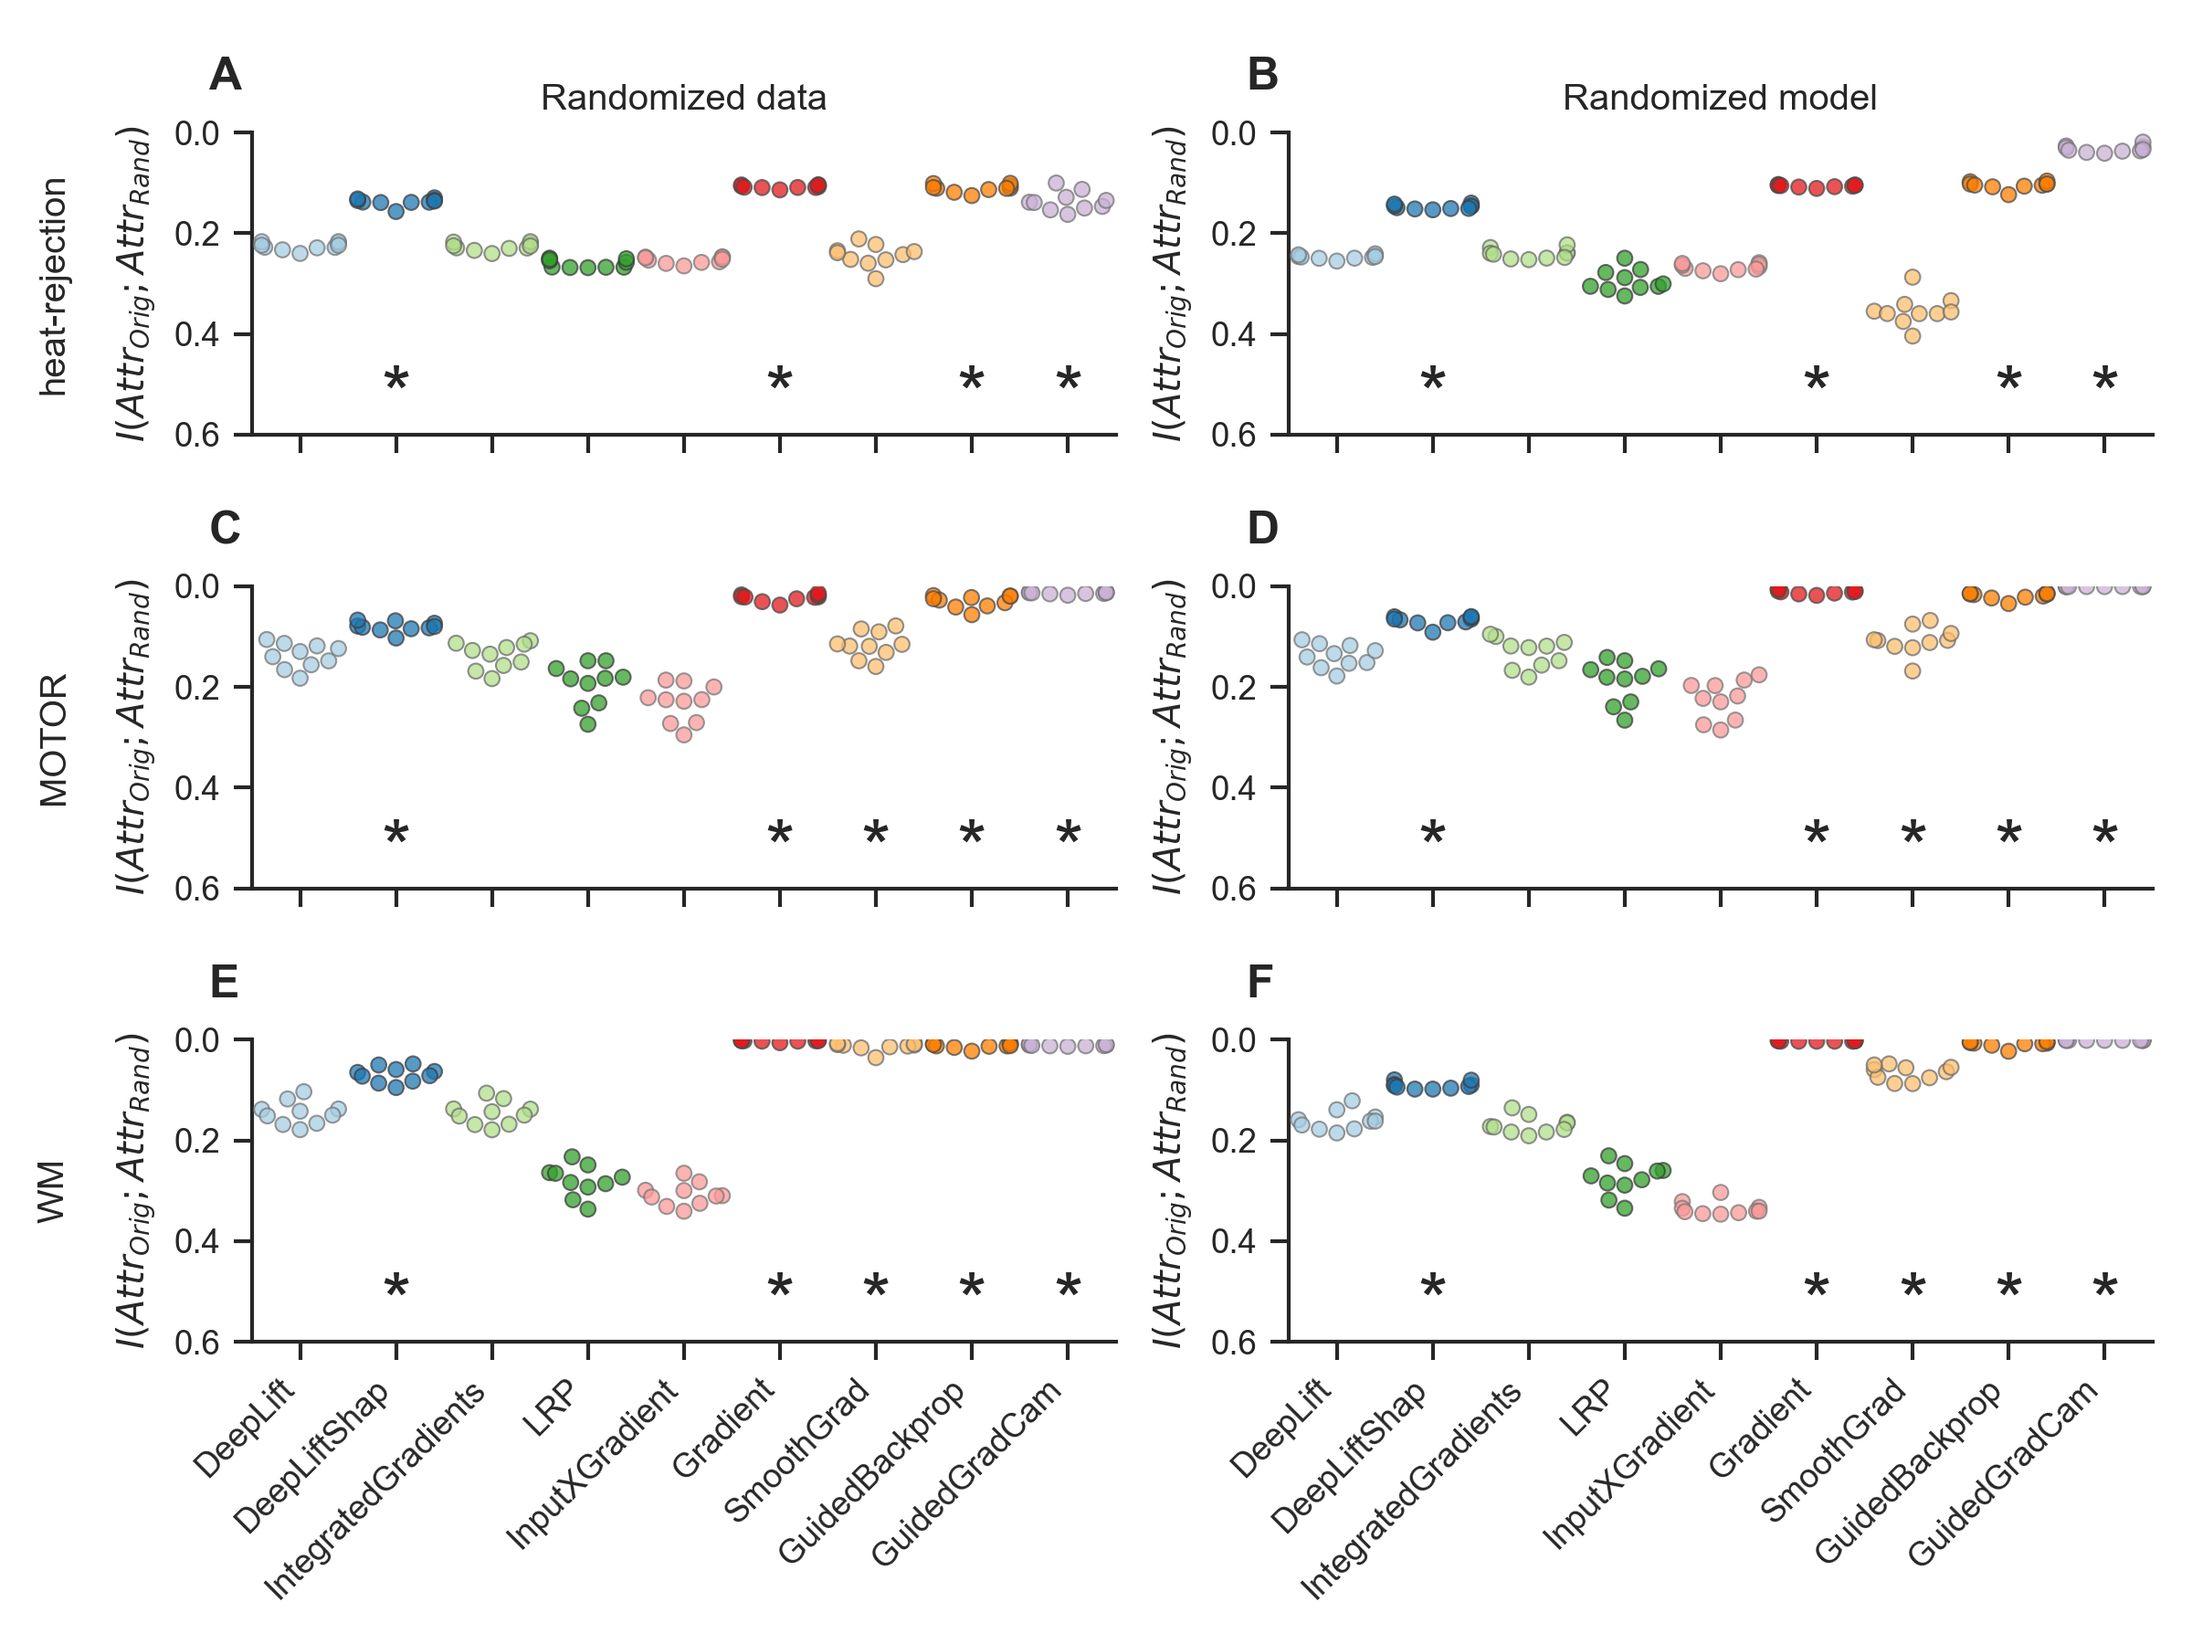
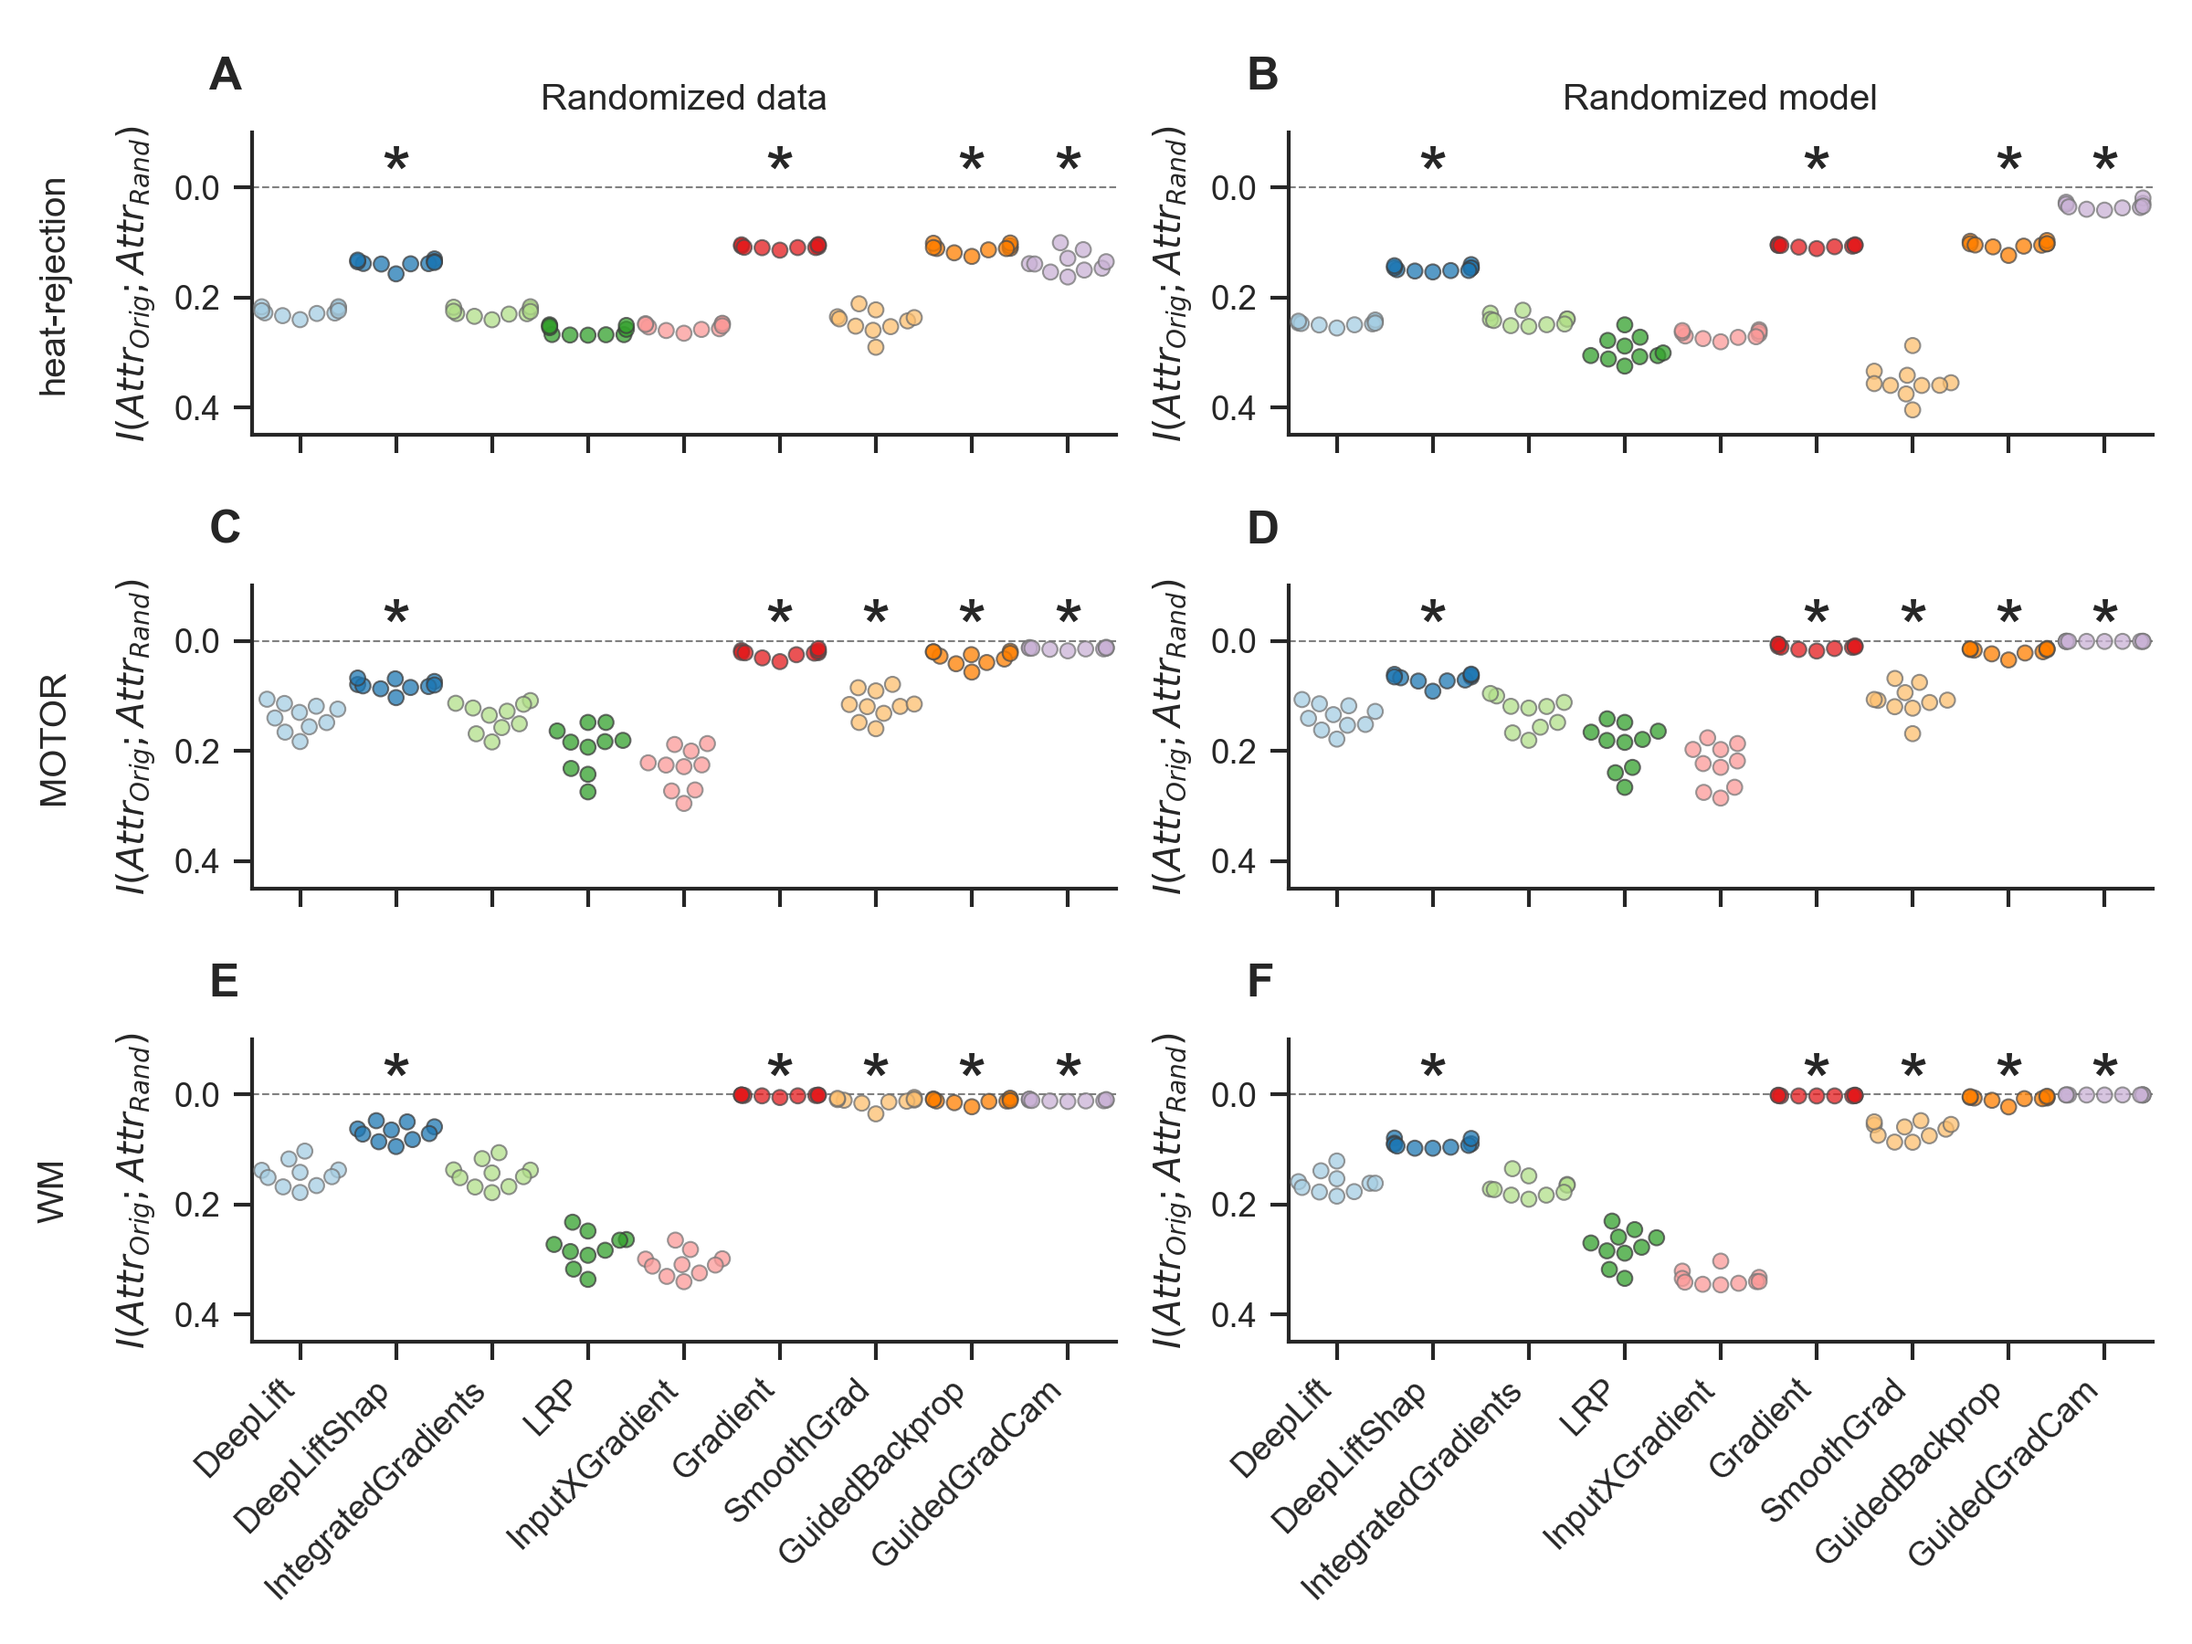
cleanup

diff --git a/scripts/fig_sanity-checks.py b/scripts/fig_sanity-checks.py
@@ -105,7 +105,8 @@ def fig_sanity_checks(config=None) -> None:
         axs[0].set_xlabel('')
         ylabel=r'$I(Attr_{Orig}; Attr_{Rand})$'
         axs[0].set_ylabel(f'{task}\n\n{ylabel}')
-        axs[0].set_ylim(0.6, 0)
+        axs[0].set_ylim(0.45, -0.1)
+        axs[0].axhline(0, lw=0.5, ls='--', color='gray')
 
         # compute mixed effects model
         mfx_results_path = os.path.join(
@@ -168,7 +169,7 @@ def fig_sanity_checks(config=None) -> None:
                     axs[0].text(
                         s='*',
                         x=mi,
-                        y=0.6, #float(axs[0].get_ylim()[1])*0.9,
+                        y=0.05, #float(axs[0].get_ylim()[1])*0.9,
                         ha='center',
                         va='bottom',
                         fontsize=20
@@ -220,7 +221,8 @@ def fig_sanity_checks(config=None) -> None:
         sns.despine(ax=axs[1])  
         axs[1].set_xlabel('') 
         axs[1].set_ylabel(r'$I(Attr_{Orig}; Attr_{Rand})$')
-        axs[1].set_ylim(0.6, 0)
+        axs[1].set_ylim(0.45, -0.1)
+        axs[1].axhline(0, lw=0.5, ls='--', color='gray')
 
         # compute mixed effects model
         mfx_results_path = os.path.join(
@@ -283,7 +285,7 @@ def fig_sanity_checks(config=None) -> None:
                     axs[1].text(
                         s='*',
                         x=mi,
-                        y=0.6, #float(axs[1].get_ylim()[1])*0.9,
+                        y=0.05, #float(axs[1].get_ylim()[1])*0.9,
                         ha='center',
                         va='bottom',
                         fontsize=20
